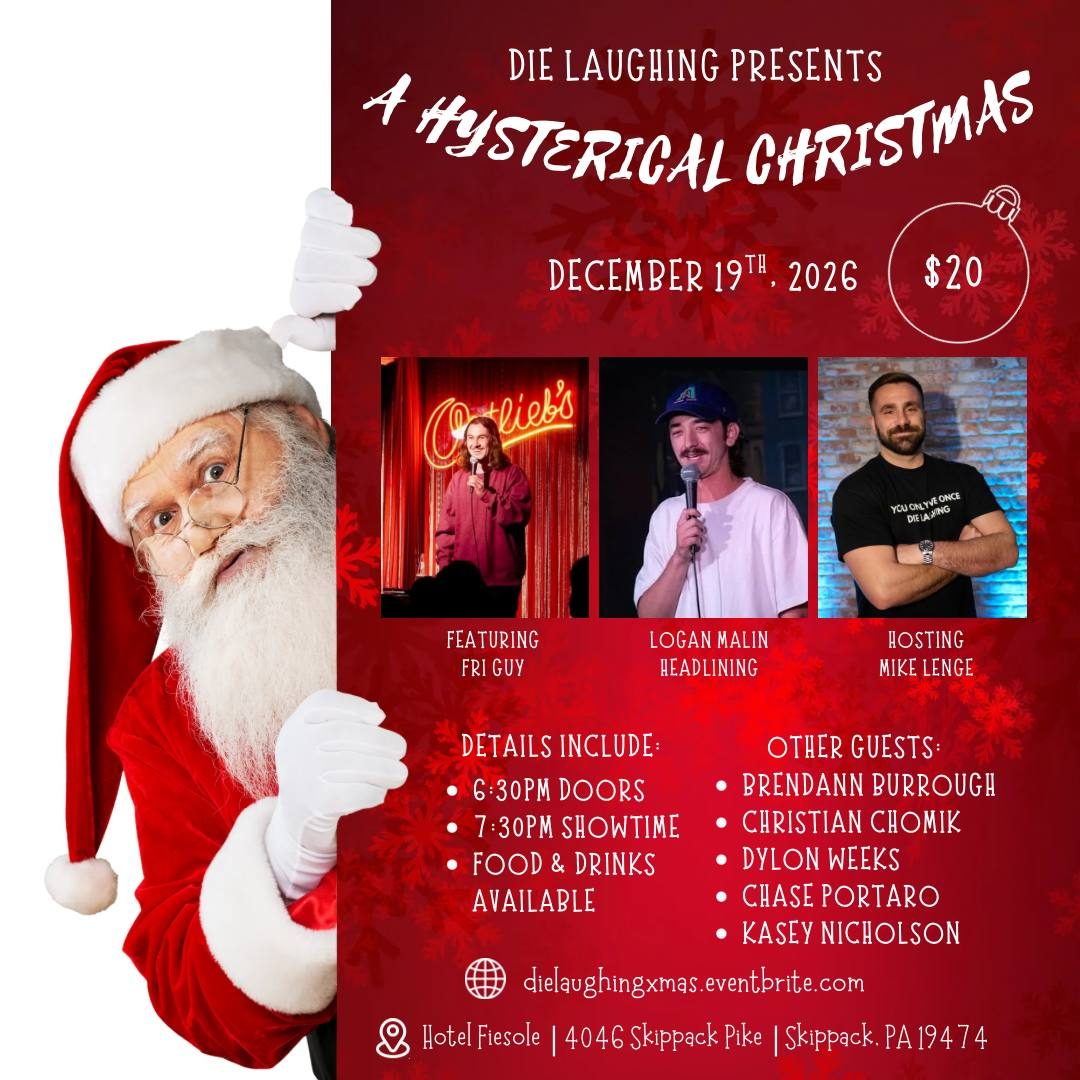
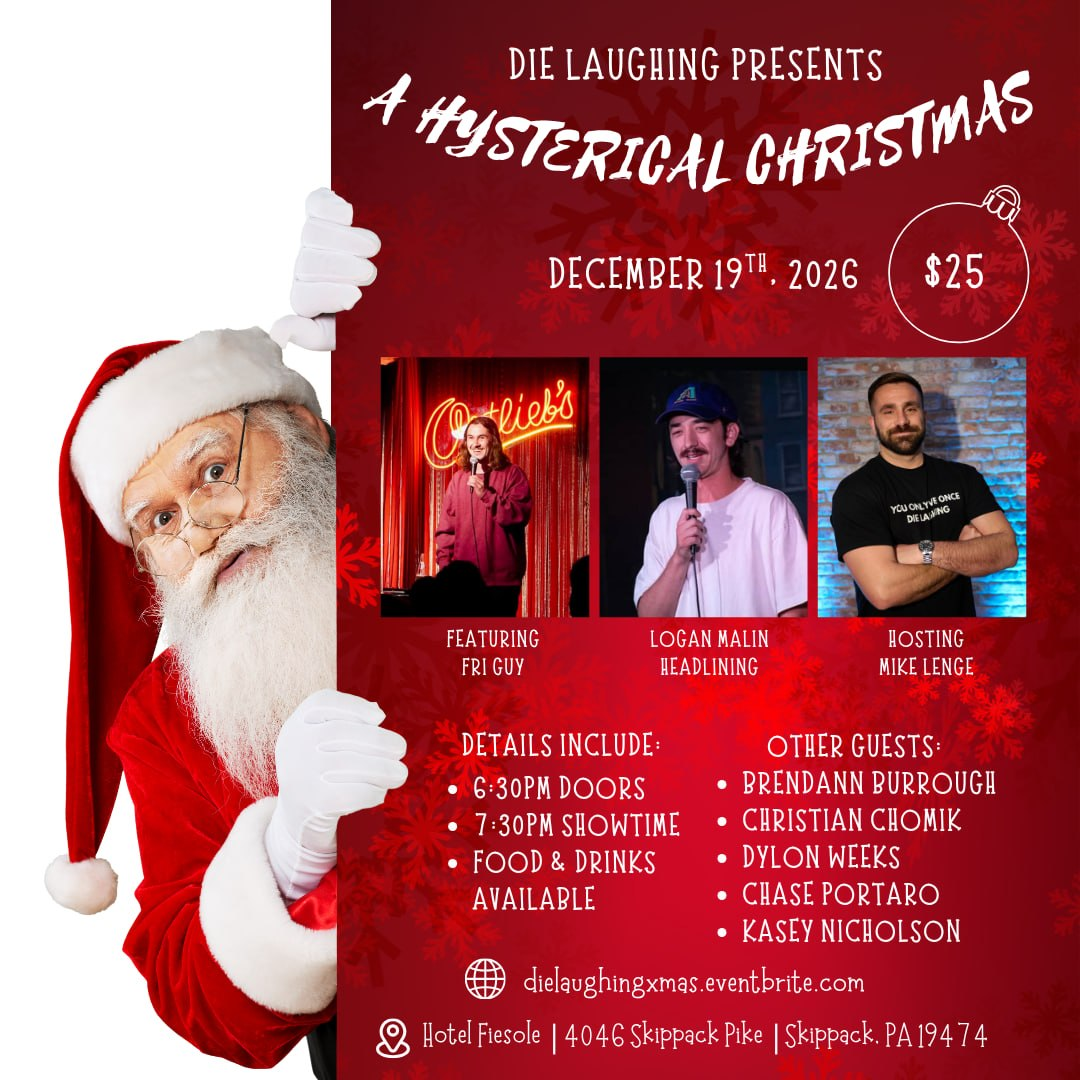
Move Oct 16 show to past shows with photos, order Oct 17/16, update Nov 14 and Dec 19 flyers

diff --git a/home.html b/home.html
@@ -806,26 +806,6 @@
       </p>
     </div>
 
-    <!-- OCT 16TH SHOW - Barely Breathing at Rivet, Pottstown -->
-    <div class="swiper-slide show-card glass rounded-2xl p-6 sm:p-8 card-hover" data-show-date="2026-10-16">
-      <div class="flex justify-center">
-        <div class="text-center">
-          <img
-            src="flyer-barely-breathing-oct16.jpg"
-            alt="Die Laughing Presents: Barely Breathing - October 16, 2026 at Rivet, Pottstown PA"
-            width="1024" height="1280"
-            class="w-full max-w-md mx-auto h-auto rounded-2xl shadow-2xl cursor-pointer hover:scale-105 transition ring-2 ring-white/10"
-            loading="lazy" decoding="async"
-            onclick="openModal(this.src, 'Barely Breathing - October 16, 2026')">
-          <a href="https://www.eventbrite.com/e/1992928757562?aff=oddtdtcreator"
-             target="_blank" rel="noopener noreferrer"
-             class="tap mt-6 inline-block bg-gradient-to-r from-orange-500 to-pink-500 hover:from-orange-400 hover:to-pink-400 text-white font-bold py-4 px-10 rounded-full text-base transition focus-ring shadow-lg btn-glow">
-            Get Tickets • Oct 16th
-          </a>
-        </div>
-      </div>
-    </div>
-
     <!-- OCT 31ST SHOW - Die Laughing Party Night (Halloween) at Rivet, Pottstown -->
     <div class="swiper-slide show-card glass rounded-2xl p-6 sm:p-8 card-hover" data-show-date="2026-10-31">
       <div class="flex justify-center">
@@ -851,9 +831,9 @@
       <div class="flex justify-center">
         <div class="text-center">
           <img
-            src="flyer-stuffin-it-nov14.jpg"
+            src="flyer-stuffin-it-nov14.jpg?v=2"
             alt="Die Laughing: Stuffin' It - November 14, 2026 at Hotel Fiesole, Skippack PA"
-            width="989" height="1280"
+            width="988" height="1280"
             class="w-full max-w-md mx-auto h-auto rounded-2xl shadow-2xl cursor-pointer hover:scale-105 transition ring-2 ring-white/10"
             loading="lazy" decoding="async"
             onclick="openModal(this.src, 'Stuffin It - November 14, 2026')">
@@ -911,7 +891,7 @@
       <div class="flex justify-center">
         <div class="text-center">
           <img
-            src="flyer-hysterical-christmas-dec19.jpg"
+            src="flyer-hysterical-christmas-dec19.jpg?v=2"
             alt="Die Laughing Presents: A Hysterical Christmas - December 19, 2026 at Hotel Fiesole, Skippack PA"
             width="1080" height="1080"
             class="w-full max-w-md mx-auto h-auto rounded-2xl shadow-2xl cursor-pointer hover:scale-105 transition ring-2 ring-white/10"
@@ -954,6 +934,20 @@
             loading="lazy" decoding="async">
         </a>
         <figcaption class="text-sm text-gray-300 font-semibold mt-3">October 17, 2026 Show<br><span class="text-xs">Click here for pictures of the show</span></figcaption>
+      </figure>
+
+      <!-- October 16, 2026 - Barely Breathing at Rivet, Pottstown -->
+      <figure class="swiper-slide bg-black/30 rounded-lg p-4 shadow">
+        <a href="https://maddijeanphotography.pixieset.com/rivet1016/"
+           target="_blank" rel="noopener noreferrer">
+          <img
+            src="flyer-barely-breathing-oct16.jpg"
+            alt="Die Laughing Presents: Barely Breathing - October 16, 2026 at Rivet, Pottstown PA"
+            width="1024" height="1280"
+            class="w-full h-auto rounded-md cursor-pointer hover:scale-[1.02] transition"
+            loading="lazy" decoding="async">
+        </a>
+        <figcaption class="text-sm text-gray-300 font-semibold mt-3">October 16, 2026 Show<br><span class="text-xs">Click here for pictures of the show</span></figcaption>
       </figure>
 
       <!-- October 1, 2026 - Thirsty Thursday Open Mic Competition at Rivet, Pottstown -->
